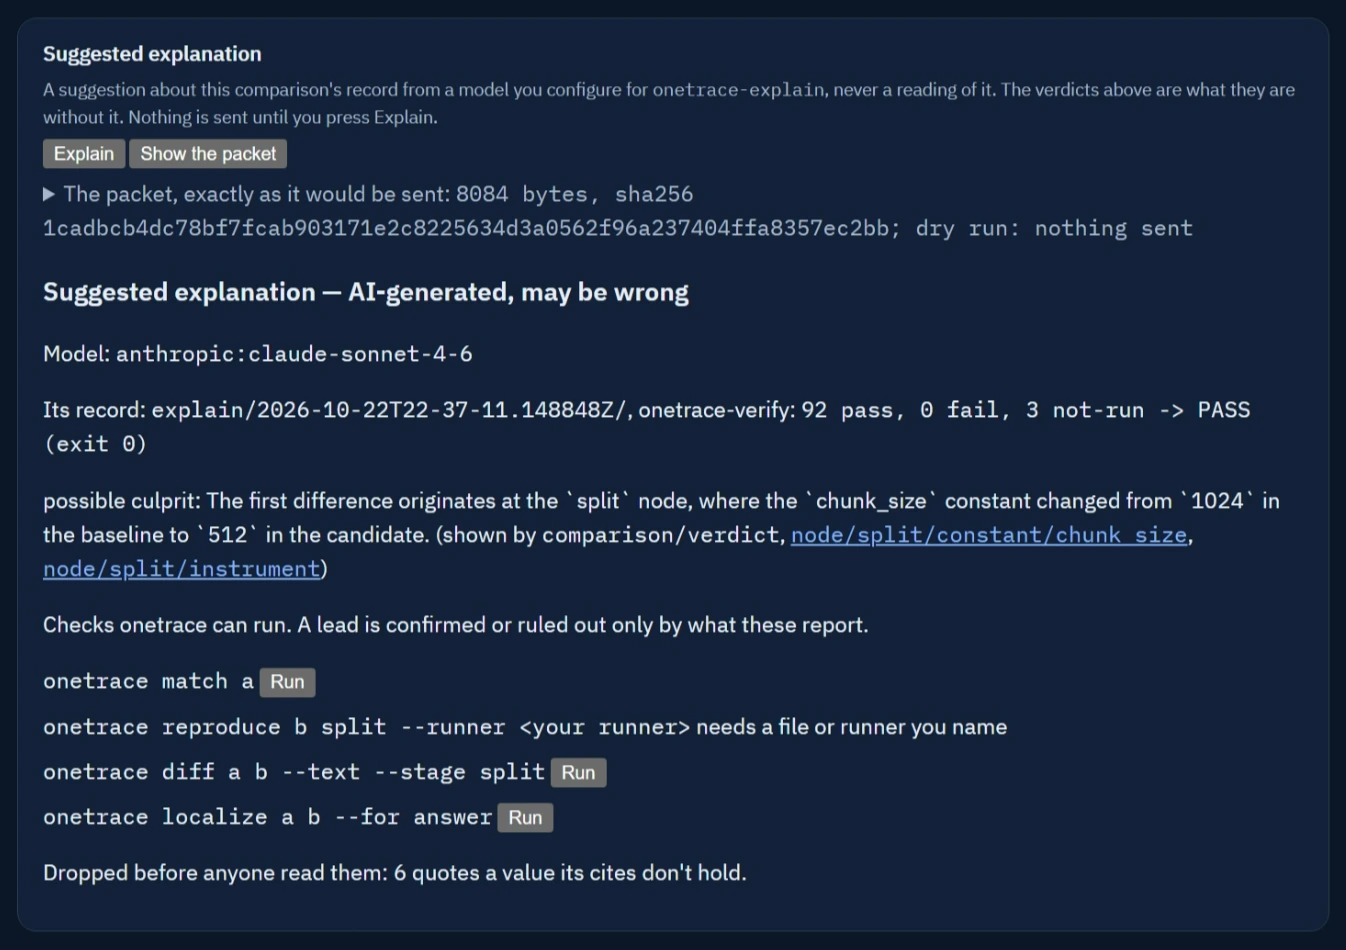
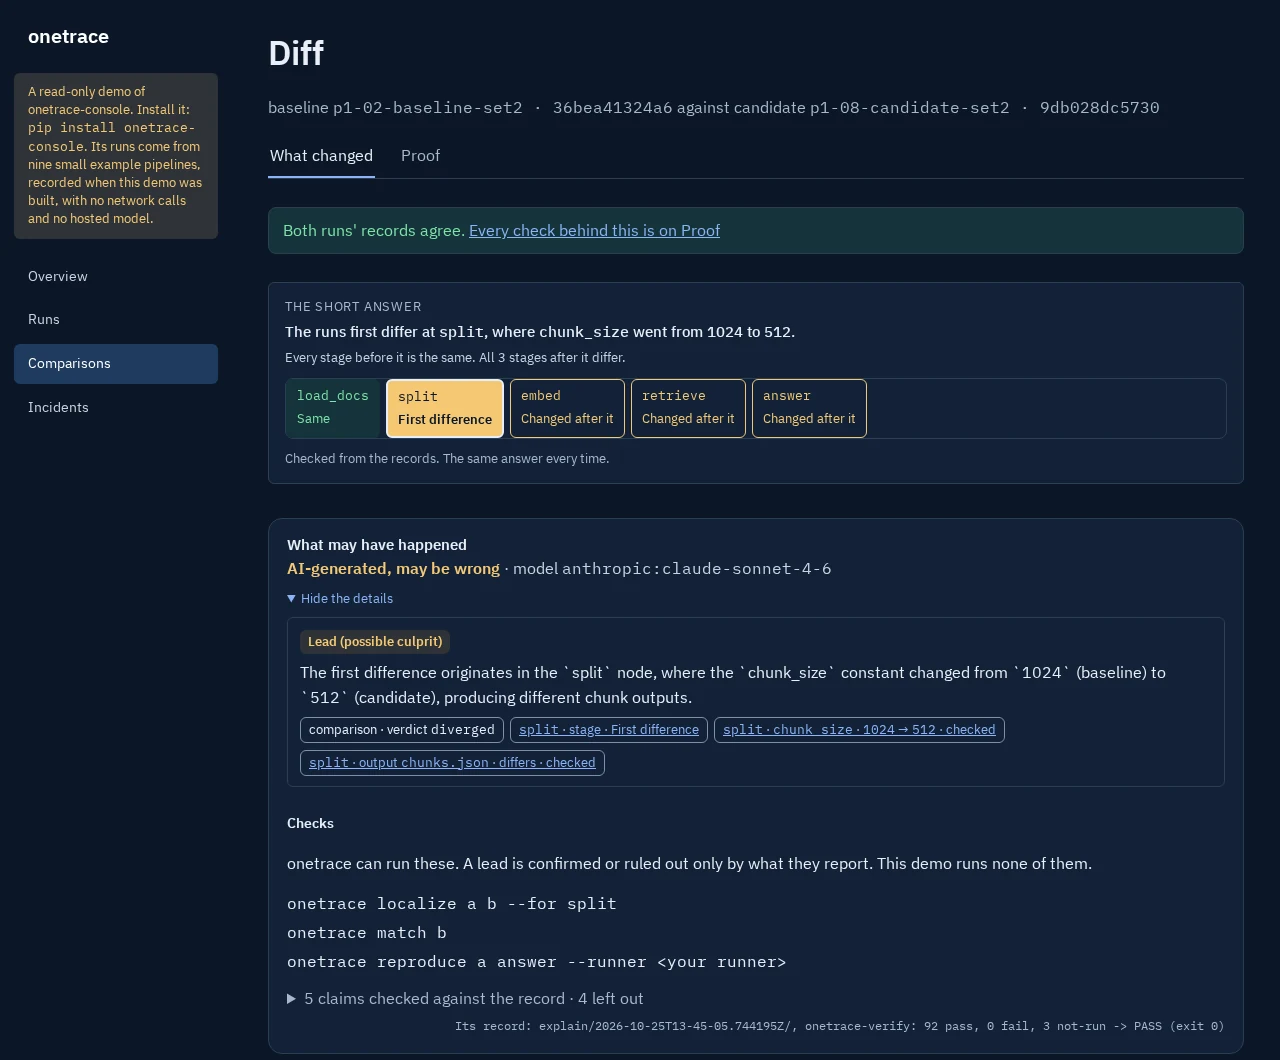
Site: what's new for console 0.3.2 and 0.3.1, and the explanation screenshot from the live demo

diff --git a/whats-new.html b/whats-new.html
@@ -4,7 +4,7 @@
 <meta charset="utf-8">
 <meta name="viewport" content="width=device-width, initial-scale=1">
 <title>What's new: onetrace-console 0.3 and onetrace 0.4 · oneproof</title>
-<meta name="description" content="onetrace-console 0.3.0 runs on onetrace 0.4.0, with a drift page for each pipeline and checked explanations. onetrace 0.4.0: export a run to OpenTelemetry, compare many runs at once with drift, and get a suggested explanation that is checked against the record. Also everything from 0.3.0 and 0.3.1.">
+<meta name="description" content="onetrace-console 0.3.2: a short answer at the top of every comparison, the explanation redrawn under it, a setup page for Explain. 0.3.1: a Compare button, a faster store, two more example pipelines, and kept explanations on the live demo. onetrace 0.4.0: export a run to OpenTelemetry, compare many runs at once with drift, and a suggested explanation that is checked against the record.">
 <link rel="canonical" href="https://oneproof.dev/whats-new.html">
 <meta property="og:title" content="What's new: onetrace-console 0.3 and onetrace 0.4">
 <meta property="og:description" content="Export a run to OpenTelemetry, compare many runs with drift, and get a suggested explanation checked against the record.">
@@ -42,10 +42,12 @@
 
 <div class="page-hero">
   <div class="wrap">
-    <span class="eyebrow"><b>What's new</b> onetrace-console 0.3.0 · onetrace 0.4.0</span>
-    <h1>Many runs side by side, in your browser and in your terminal.</h1>
-    <p class="lede">onetrace-console 0.3.0 is on PyPI and runs on onetrace 0.4.0. onetrace 0.4.0 and onetrace-verify 0.4.0 came first, with a new, separate package: onetrace-explain 0.1.0. This page also covers onetrace 0.3.0 and 0.3.1, which shipped without a page of their own. The record stays what it was: one receipt per step, checked by a verifier that doesn't trust your code.</p>
+    <span class="eyebrow"><b>What's new</b> onetrace-console 0.3.2 · onetrace 0.4.0</span>
+    <h1>The short answer first, then what may have happened.</h1>
+    <p class="lede">onetrace-console 0.3.2 is on PyPI and runs on onetrace 0.4.0. Every comparison page now opens with one checked sentence on where the runs first differ, and the suggested explanation sits directly under it. 0.3.1 brought a Compare button, a faster store, two more example pipelines and kept explanations on the live demo. onetrace 0.4.0 and onetrace-verify 0.4.0 came first, with onetrace-explain 0.1.0. The record stays what it was: one receipt per step, checked by a verifier that doesn't trust your code.</p>
     <div class="crumbs">
+      <a href="#console032">Console 0.3.2</a>
+      <a href="#console031">Console 0.3.1</a>
       <a href="#console030">Console 0.3.0</a>
       <a href="#v040">In 0.4.0</a>
       <a href="#explain">Suggested explanations</a>
@@ -55,6 +57,54 @@
     </div>
   </div>
 </div>
+
+<section id="console032" aria-labelledby="console032-title">
+  <div class="wrap">
+    <p class="kicker">onetrace-console 0.3.2</p>
+    <h2 id="console032-title">A short answer at the top of every comparison.</h2>
+    <p class="sub">From the comparison's own records and no model, so it is the same every time. The sections below it are unchanged.</p>
+    <div class="grid-3">
+      <div class="card">
+        <h3>The short answer</h3>
+        <p>One sentence says where the two runs first differ and what differs there: a setting by its recorded name with both values ("The runs first differ at <code>split</code>, where <code>chunk_size</code> went from 1024 to 512."), an input, a configuration, or the step's output. A line under it says the stages before it are the same and counts what came after. A strip shows each stage in order with its result, the first difference marked. Runs whose outputs all agree say so, and name a setting that differs anyway.</p>
+      </div>
+      <div class="card">
+        <h3>The explanation, redrawn and moved up</h3>
+        <p>It sits directly under the short answer, with one heading, "What may have happened", and "AI-generated, may be wrong" with its model on every explanation. Each kept claim is a card: its kind, its text, and its cites as chips naming the stage and the item, with both values where the records hold them. Each suggested check is listed once, with a Run button where the console can run it and a Copy button where it cannot. A footer counts the claims checked against the record and those left out. The kept explanations on the live demo are drawn this way from the same records.</p>
+      </div>
+      <div class="card">
+        <h3>A setup page for Explain</h3>
+        <p>On your own console, <code>/explain/setup</code> is a guide in three steps, and changes nothing: the model your configuration names, an OpenAI-compatible model on your machine as a choice, what always stays with you and what is sent, the two flags that add text or hold a value back, and the three promises. It has no button, and never shows the key, its variable, the endpoint or the request. The live demo has no setup page.</p>
+      </div>
+    </div>
+<div class="shot" style="margin-top:28px;max-width:980px"><a href="/assets/img/shot-explain.webp"><img src="/assets/img/shot-explain.webp" width="1280" height="1060" loading="lazy" alt="The live demo's split comparison in onetrace-console 0.3.2: The short answer at the top, saying the runs first differ at split where chunk_size went from 1024 to 512, with a strip of the five stages; directly under it, What may have happened, AI-generated, may be wrong, with one Lead card, its cites as chips, three suggested checks, and the line 5 claims checked against the record, 4 left out."></a></div>
+<pre>pip install --upgrade onetrace-console
+onetrace-console demo --open</pre>
+    <p class="sub">The full list is in the <a href="https://github.com/shamiksaharcciit-oss/onetrace-console/releases/tag/v0.3.2">release notes</a>.</p>
+  </div>
+</section>
+
+<section id="console031" class="section-soft" aria-labelledby="console031-title">
+  <div class="wrap">
+    <p class="kicker">onetrace-console 0.3.1</p>
+    <h2 id="console031-title">A Compare button, a faster store, and two more pipelines.</h2>
+    <div class="grid-3">
+      <div class="card">
+        <h3>Compare with one press</h3>
+        <p>On your own console, each pair not compared yet has a Compare button beside its request. A Compare press, a drawing of the pages and the public build each read the store once; every page is the same, byte for byte, as before. On one Windows PC, measured side by side, a Compare press went from 73.8 s to 9.1 s and the public build from 796 s to 309 s.</p>
+      </div>
+      <div class="card">
+        <h3>Invoice match and wheel-bolt torque</h3>
+        <p>Two more example pipelines in the demo: a supplier's invoice matched against its purchase order and goods receipt, with a price tolerance, to paying or holding it; and a tightening tool's five bolt torques against a window, to passing the wheel or sending it to rework. Both use invented example data. See the <a href="/industries/procurement.html">procurement</a> and <a href="/industries/automotive.html">automotive</a> pages.</p>
+      </div>
+      <div class="card">
+        <h3>Kept explanations on the live demo</h3>
+        <p>A public console runs no command and calls no model. It now shows the explanations its build kept, made once and served as files: on the comparison's page, each with its model, its claims with their cites, the checks it names, and the claims dropped with the reason. The live demo keeps four. Every other comparison says none is kept.</p>
+      </div>
+    </div>
+    <p class="sub">The full list is in the <a href="https://github.com/shamiksaharcciit-oss/onetrace-console/releases/tag/v0.3.1">release notes</a>.</p>
+  </div>
+</section>
 
 <section id="console030" aria-labelledby="console030-title">
   <div class="wrap">
@@ -148,7 +198,7 @@ onetrace drift runs/run-1 runs/run-2 runs/run-3 --against first --durations</pre
         <p>Each explanation is recorded as a onetrace run of its own, so you can check later what was sent and what came back.</p>
       </div>
     </div>
-<div class="shot" style="margin-top:28px;max-width:980px"><img src="/assets/img/shot-explain.webp" width="1346" height="950" loading="lazy" alt="A real suggested explanation on the console's comparison page for the demo's split comparison. Its heading reads Suggested explanation — AI-generated, may be wrong. Model: anthropic:claude-sonnet-4-6. Its record verifies: 92 pass, 0 fail, 3 not-run, PASS. Its one claim says the first difference is at split, where the chunk_size constant changed from 1024 to 512, naming the three items in the record it cites, two of them as links. Below, four onetrace commands it suggests, three with a Run button and one that needs a runner you name. Last line: dropped before anyone read them, 6 claims that quote a value their cites don't hold."></div>
+<div class="shot" style="margin-top:28px;max-width:980px"><img src="/assets/img/shot-explain.webp" width="1280" height="1060" loading="lazy" alt="The live demo's split comparison as onetrace-console 0.3.2 draws it: the short answer, then the kept explanation, AI-generated, may be wrong, with its one claim, its cites as chips, and the checks it suggests."></div>
 <p class="sub" style="font-size:14px">A real explanation of the demo's split comparison, written by claude-sonnet-4-6 on the local console 0.3.0.</p>
 <pre>pip install onetrace-explain
 onetrace localize runs/A runs/B --out report

diff --git a/index.html b/index.html
@@ -44,7 +44,7 @@
 <section class="hero" aria-labelledby="hero-title">
   <div class="wrap hero-grid">
     <div>
-      <a class="eyebrow" href="/whats-new.html" style="text-decoration:none"><b>New</b> onetrace-console 0.3: a drift page for each pipeline, and checked explanations &rarr;</a>
+      <a class="eyebrow" href="/whats-new.html" style="text-decoration:none"><b>New</b> onetrace-console 0.3.2: the short answer first, then what may have happened &rarr;</a>
       <h1 id="hero-title">Your AI changed. Find the <em>first difference</em>.</h1>
       <p class="lede">Compare two runs of your pipeline. onetrace shows the first step whose output differs, what was recorded there, and every step that changed after it. Each run's record is one receipt per step, checkable by anyone.</p>
       <div class="cta-row">
@@ -180,16 +180,16 @@
         <ul style="color:var(--ink-2);line-height:1.7;margin:0 0 20px 20px;padding:0">
           <li><b>Labelled, every time.</b> Each explanation says it is AI-generated and may be wrong, and names the model that wrote it.</li>
           <li><b>Every claim cites the record.</b> It names the items in the comparison it rests on, linked where the page can show them. Claims that misquote the record are dropped before anyone reads them, and the page says how many.</li>
-          <li><b>Checks you can run.</b> It suggests onetrace commands, and the console runs the ones it can with one click. A lead is confirmed or ruled out only by what those checks report.</li>
+          <li><b>Checks you can run.</b> It suggests onetrace commands, each once; on your own console, the ones it can run get a Run button and every other a Copy button. A lead is confirmed or ruled out only by what those checks report.</li>
           <li><b>It leaves a record too.</b> Each explanation is recorded as a onetrace run of its own, and checked like any other.</li>
           <li><b>You choose what's sent.</b> To a model you configure, only when you press Explain. Before it first sends a kind of item to an endpoint, it names those kinds and waits for Send, and "Show the packet" shows the exact bytes.</li>
         </ul>
 <pre>pip install onetrace-explain</pre>
         <p style="color:var(--ink-2);margin-top:12px"><a href="/whats-new.html#explain">How it works</a> · <a href="/onetrace/explain-format.html">What it reads, sends, checks and writes</a></p>
       </div>
-      <div class="shot"><a href="/assets/img/shot-explain.webp"><img src="/assets/img/shot-explain.webp" width="1346" height="950" loading="lazy" alt="A real suggested explanation on the console's comparison page for the demo's split comparison. Its heading reads Suggested explanation — AI-generated, may be wrong. Model: anthropic:claude-sonnet-4-6. Its record verifies: 92 pass, 0 fail, 3 not-run, PASS. Its one claim says the first difference is at split, where the chunk_size constant changed from 1024 to 512, naming the three items in the record it cites, two of them as links. Below, four onetrace commands it suggests, three with a Run button and one that needs a runner you name. Last line: dropped before anyone read them, 6 claims that quote a value their cites don't hold."></a></div>
+      <div class="shot"><a href="/assets/img/shot-explain.webp"><img src="/assets/img/shot-explain.webp" width="1280" height="1060" loading="lazy" alt="The live demo's split comparison in onetrace-console 0.3.2. At the top, The short answer: The runs first differ at split, where chunk_size went from 1024 to 512. Every stage before it is the same, all 3 stages after it differ; a strip of the five stages with split marked First difference. Directly under it, What may have happened, AI-generated, may be wrong, model anthropic:claude-sonnet-4-6: one card, Lead (possible culprit), saying the first difference originates in the split node where the chunk_size constant changed from 1024 to 512, with four cites as chips, two of them checked; then three onetrace commands under Checks, and the line 5 claims checked against the record, 4 left out."></a></div>
     </div>
-    <p class="sub" style="font-size:14px;margin-top:20px">Shown: a real explanation of the demo's split comparison, written by claude-sonnet-4-6 on the local console. The live demo now shows four kept explanations, made once and served as files; it calls no model. <a href="https://demo.oneproof.dev/diff/371af83389a8a2832741c2d1e147d16d58e739c21ed2938fed7024c003399624.html">See the split comparison's explanation on the live demo</a></p>
+    <p class="sub" style="font-size:14px;margin-top:20px">Shown: the live demo's split comparison in onetrace-console 0.3.2: the short answer first, then the kept explanation, written once by claude-sonnet-4-6 and served as a file. The live demo shows four kept explanations and calls no model. <a href="https://demo.oneproof.dev/diff/371af83389a8a2832741c2d1e147d16d58e739c21ed2938fed7024c003399624.html">See the split comparison's explanation on the live demo</a></p>
   </div>
 </section>
 
